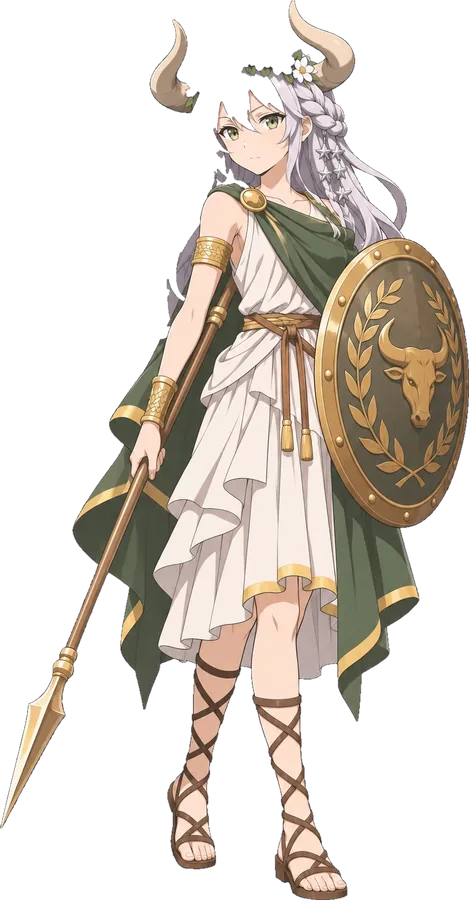
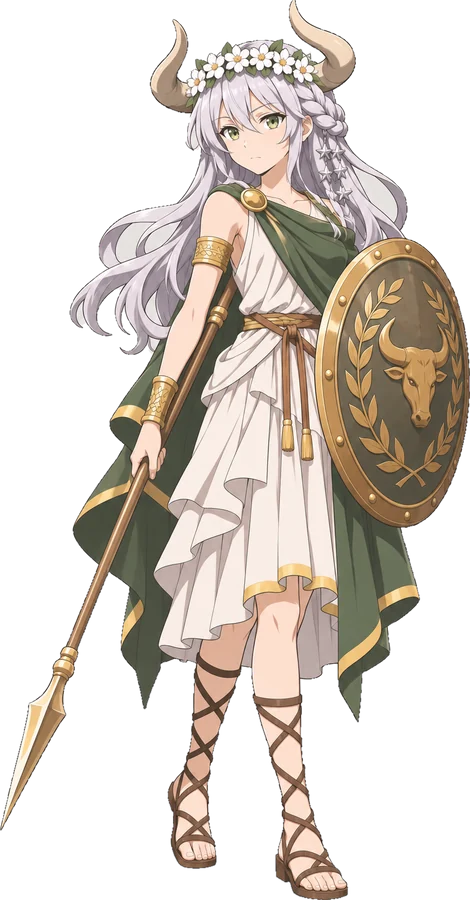
仮の立ち絵の切り抜きを直す：角の内側などの小さなすき間、足もとの影、おうし座の白銀の髪
Claude-Session: https://claude.ai/code/session_016fk9NvoXWiMDchST95bpzh

diff --git a/src/data/heroArt.ts b/src/data/heroArt.ts
@@ -33,7 +33,8 @@ export interface HeroArt {
 }
 
 const art = (id: HeroId, width: number, headTop: number, headX: number, pose = 1): HeroArt => ({
-  file: `art/heroes/${id}.webp`,
+  // 絵を差し替えたら v を上げる（端末や Pages に古い絵が残らないように）
+  file: `art/heroes/${id}.webp?v=3`,
   width,
   height: 900,
   headTop,
@@ -45,18 +46,18 @@ const art = (id: HeroId, width: number, headTop: number, headX: number, pose = 1
 export const HERO_ART_TENTATIVE = true;
 
 export const HERO_ART: Record<HeroId, HeroArt> = {
-  aries: art('aries', 472, 0.01, 0.445),
-  taurus: art('taurus', 469, 0.049, 0.571),
-  gemini: art('gemini', 578, 0.008, 0.469),
-  cancer: art('cancer', 556, 0.011, 0.497),
-  leo: art('leo', 542, 0.009, 0.569),
-  virgo: art('virgo', 368, 0.02, 0.589),
-  libra: art('libra', 264, 0.003, 0.515),
-  scorpio: art('scorpio', 500, 0.007, 0.415, 0.9),
-  sagittarius: art('sagittarius', 547, 0.033, 0.562),
-  capricorn: art('capricorn', 385, 0.034, 0.388),
-  aquarius: art('aquarius', 389, 0.002, 0.586),
-  pisces: art('pisces', 470, 0.009, 0.549),
+  aries: art('aries', 471, 0.009, 0.448),
+  taurus: art('taurus', 470, 0.049, 0.542),
+  gemini: art('gemini', 578, 0.009, 0.47),
+  cancer: art('cancer', 557, 0.011, 0.498),
+  leo: art('leo', 542, 0.01, 0.57),
+  virgo: art('virgo', 368, 0.02, 0.582),
+  libra: art('libra', 265, 0.004, 0.515),
+  scorpio: art('scorpio', 501, 0.007, 0.417, 0.9),
+  sagittarius: art('sagittarius', 548, 0.033, 0.562),
+  capricorn: art('capricorn', 385, 0.036, 0.388),
+  aquarius: art('aquarius', 389, 0.003, 0.584),
+  pisces: art('pisces', 470, 0.009, 0.551),
 };
 
 /** いちばん背の高いキャラの背丈。並べたときの高さの基準 */

diff --git a/tests/heroArt.test.ts b/tests/heroArt.test.ts
@@ -8,7 +8,7 @@ describe('立ち絵と背丈（仕様書 18.3・18.4）', () => {
     for (const id of ALL_HEROES) {
       expect(HERO_HEIGHT_CM[id] >= 150 && HERO_HEIGHT_CM[id] <= 190).toBe(true);
       const a = HERO_ART[id];
-      expect(existsSync(`public/${a.file}`)).toBe(true);
+      expect(existsSync(`public/${a.file.split('?')[0]}`)).toBe(true);
       expect(a.headTop >= 0 && a.headTop < 0.1).toBe(true);
       expect(a.headX > 0.2 && a.headX < 0.8).toBe(true);
     }

diff --git a/docs/decisions.md b/docs/decisions.md
@@ -2,6 +2,14 @@
 
 仕様（`docs/game-spec.md`）を変えたときや、仕様に書かれていないことを決めたときに、新しいものを上に足す。
 
+## 2026-11-03 仮の立ち絵の切り抜きをもう一度直す
+
+- **ユーザーの指摘**：まだ白い部分が残っていた（おひつじ座の角の内側など）。小さなすき間が、背景の色との差が少し大きいために残っていた
+- 切り抜きの元を、リポジトリの見本の JPEG ではなく、ユーザーが送った元の PNG にした（JPEG のざらつきで背景の色がぶれていた）
+- 人物に囲まれた背景の見分け方：広い所は背景の色にごく近く平らな所。小さな所は少しゆるめにし、そのかわりまわりが線画や濃い色に囲まれている所だけにする（白い布のしわや瞳の光を抜かないように）。かに座は背景が白に近いので小さな所は抜かない。足もとの影も抜く
+- おうし座は白銀の髪が背景の色に近く、これまでの切り抜きで髪を背景と一緒に抜いていた（髪が暗く見えていたのはそのため。見本の絵の誤りではなかった）。おうし座だけ背景の見分けをずっと厳しくした
+- 絵のファイル名の後ろに版（`?v=3`）を付け、端末に古い絵が残らないようにした。12人並びの見本（`docs/character-art/lineup.jpg`）も作り直した
+
 ## 2026-11-03 背景とオーブの絵を入れる（仕様書 1.11.0）
 
 - **ユーザーの判断**：画像生成で作った背景4枚（ホーム・バトル・クエスト選択・リザルト）と、4色のオーブの絵を使う。オーブは「そのままオーブとして使って欲しい」

diff --git a/docs/character-design.md b/docs/character-design.md
@@ -143,7 +143,7 @@
   | 小柄 | おとめ座 160cm、うお座 159cm、かに座 157cm |
 
 - **仕上げの絵柄はすっきりした方に寄せる**。見本の絵は前半の6人（おひつじ・おうし・ふたご・かに・おとめ・いて）が金の縁取りや細かい塗りの多い華やかな絵柄、後半の6人（しし・てんびん・さそり・やぎ・みずがめ・うお）が縁取りの少ないすっきりした絵柄で、後半の方を基準にする。縁取り・刺繍・細かい模様は控えめにし、色の面を大きく取る。華やかさは覚醒・進化した姿で足す（上の「覚醒・進化した姿」）。
-- 並べて気づいた直すところ：おうし座の髪は指定の白銀ではなく前の毛が暗い紺に見えるので、仕上げの絵で白銀に直す。
+- （訂正 2026-11-03）並べたときにおうし座の髪が暗く見えたのは、こちらの切り抜きで白銀の髪を背景と一緒に抜いていたため。元の絵は指定どおり白銀で、直すところではない。
 - 色の偏り：必殺の色は赤2・青4・緑4・ピンク2で、見た目の色とも合う。青い服が5人分と多いが、紺・明るい青・水色と明るさが違うので見分けられる。おとめ座とかに座はどちらも白とピンクで似て見えるので、仕上げでは髪の色（淡い金と珊瑚色）と持ち物で差をはっきりさせる。
 
 ## 決めること（質問）
